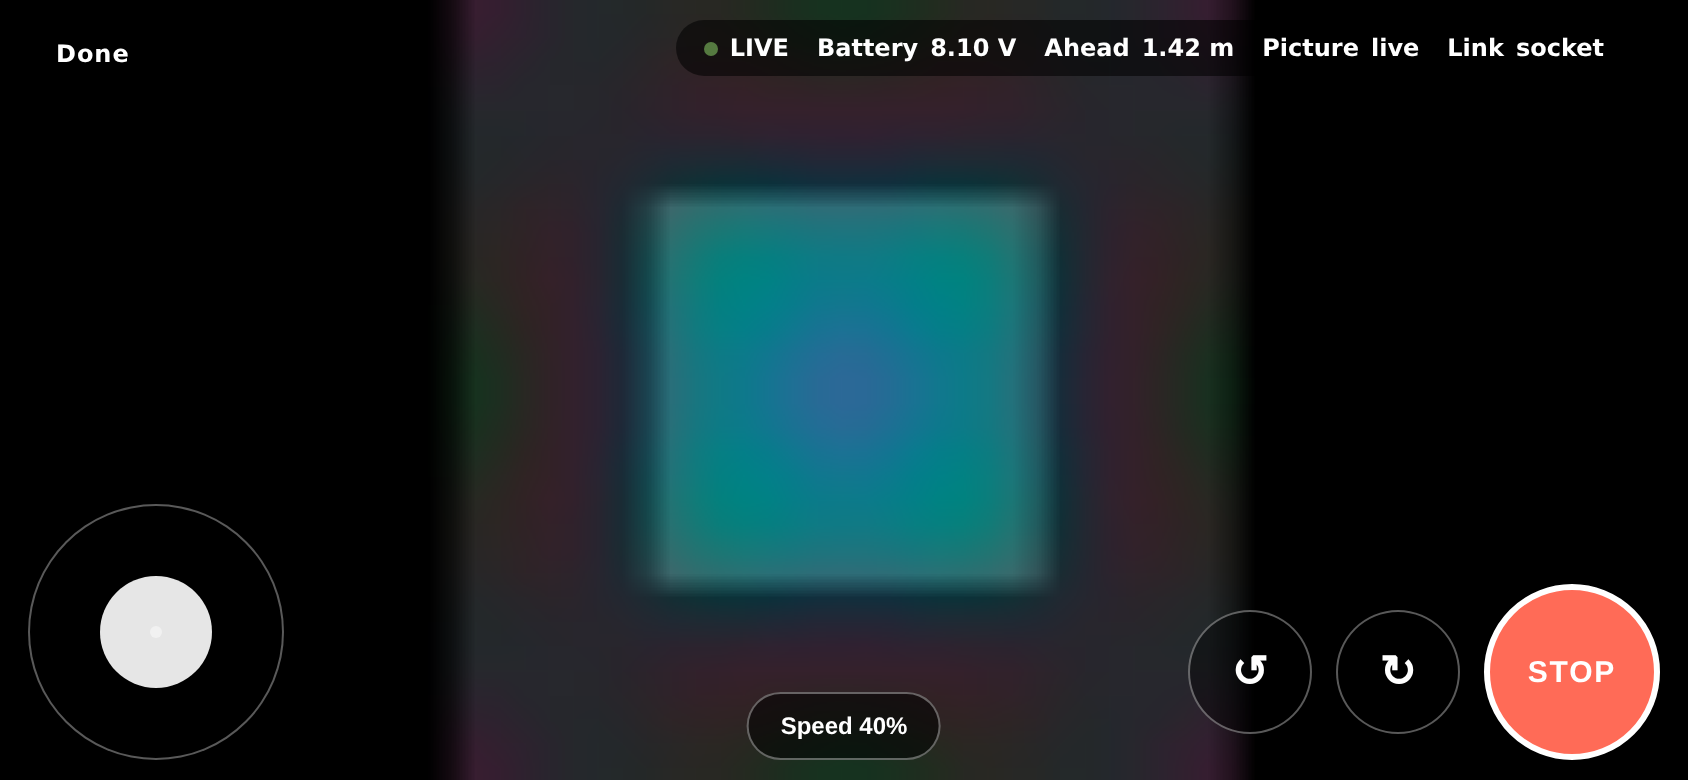
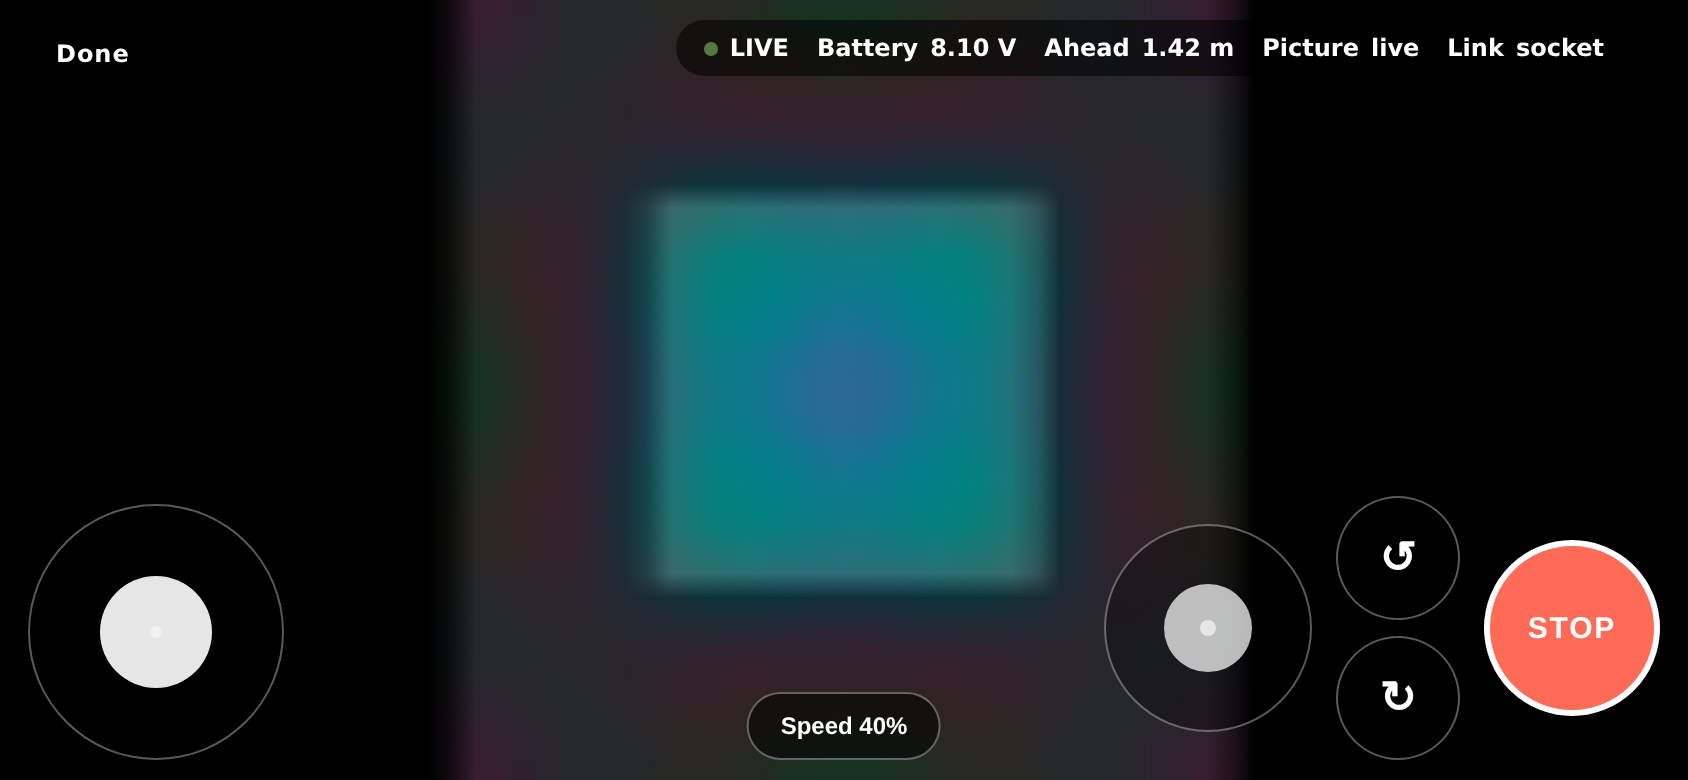
The second joystick: look around without driving
Chris asked for this twice and I had not built it. First: "I'd rather have
two joysticks: one controls the movement, and the other two control pan and
look around. Kind of think about how video games typically do this." Then,
after driving: "the pan up and down with the camera hasn't been done."

The gateway client has had `look_at()` and the app has had `/robot/look`
since the robot phase. There was simply no control on any page, so the
camera has never moved.

Left thumb drives, right thumb looks, as a twin-stick game lays it out.

**It is not a dead-man control, and that is the whole difference.**
Everything else on this page stops when you let go, because everything else
moves two kilograms of robot across a floor. A servo holds where it is put,
and a camera that snapped back to level on every release would be useless for
the one thing this is for -- looking around a room. So the knob stays where
your thumb left it, and `lookPan`/`lookTilt` are a record of where the camera
is rather than of a command in flight. Double-tapping the centre dot levels
it, because dragging to exactly zero by thumb is not a thing anyone manages.

Three more rules, each with a test, because this stick's rules are the
*inverse* of the one beside it and that is what invites a well-meant "fix":

- **Releasing it never stops the robot.** If these two ever share the drive
  stick's release path, aiming the camera mid-drive would cut the throttle.
[…]

diff --git a/src/kona_tracker/web/static/drive.js b/src/kona_tracker/web/static/drive.js
@@ -30,6 +30,7 @@
   // alarm is most likely to be raised in, since rotating upright is a stop.
   var estopAlarm = document.getElementById('estop-alarm');
   var rotL = document.getElementById('rot-left'), rotR = document.getElementById('rot-right');
+  var look = document.getElementById('look'), lookKnob = document.getElementById('look-knob');
   var shout = document.getElementById('shout'), shoutText = document.getElementById('shout-text');
   var note = document.getElementById('note');
   var volts = document.getElementById('volts'), sonar = document.getElementById('sonar');
@@ -49,6 +50,21 @@
   var PICTURE_STALE_MS = 600;
   var PICTURE_TICK_MS = 250;
   var RADIUS = 56;          // px of travel before the stick is at full tilt
+  var LOOK_RADIUS = 44;     // the look stick is smaller; its own travel
+  // The gateway clamps pan and tilt to this and so do we, for the same
+  // reason it does: a servo driven into its mechanical stop stalls, draws
+  // full current and strips its own gears. Kept equal to LOOK_LIMIT_DEG in
+  // robot/gateway.py -- if that ever moves, this moves with it.
+  var LOOK_LIMIT_DEG = 45;
+  // A servo command every 200ms would be five writes a second into an RPC
+  // server that handles one request at a time and already carries the drive
+  // loop. Aiming a camera does not need that rate: the eye cannot tell 6 Hz
+  // from 20, and a dropped intermediate position is invisible because the
+  // last one sent is the one that sticks.
+  var LOOK_INTERVAL_MS = 160;
+  // Below this the servo would be asked to move less than its own backlash,
+  // so the request is noise. In degrees.
+  var LOOK_EPSILON_DEG = 1.5;
   // The speed control caps the *velocity command*, not a pace. It used to be
   // labelled "Slow", which stopped being true on 2026-09-14: the gateway now
   // lifts every command above the motors' static-friction floor
@@ -74,6 +90,12 @@
   // The drive socket, when one is open. Null means every command goes over
   // HTTP, which is the original path and still the fallback.
   var wire = null;
+  // Where the camera is pointed, in degrees, as far as we know. Not reset
+  // on release: a servo holds where it is put, and this is our record of
+  // that rather than a command in flight.
+  var lookPan = 0, lookTilt = 0;
+  var lookPointer = null, lookSent = 0, lookTimer = null, lookInFlight = false;
+  var lookLastTap = 0;
   // Two independent reasons to shout, kept apart so neither can erase the
   // other: `owed` is the gateway telling us the board may still hold duty,
   // `failure` is our own last stop or drive that did not land.
@@ -334,6 +356,133 @@
     });
   });
 
+  // -- looking around ------------------------------------------------------
+  //
+  // The second stick. Chris asked for it twice: "I'd rather have two
+  // joysticks: one controls the movement, and the other two control pan and
+  // look around", and later "the pan up and down with the camera hasn't been
+  // done". Left thumb drives, right thumb looks, the way a twin-stick game
+  // lays it out.
+  //
+  // **It is not a dead-man control, and that is the important difference.**
+  // Everything else on this page stops when you let go, because everything
+  // else moves a two-kilogram robot across a floor. A servo holds where it is
+  // put, and a camera that snapped back to level on every release would be
+  // useless for the one thing this is for: looking around a room. So the knob
+  // stays where you left it and `lookPan`/`lookTilt` are our record of where
+  // the camera is, not of a command in flight.
+  //
+  // Degrees are absolute and sent as such. The gateway's `/look` takes a
+  // position, not a rate, so there is no integration here and no drift.
+  function placeLook() {
+    var x = lookPan / LOOK_LIMIT_DEG;
+    var y = -lookTilt / LOOK_LIMIT_DEG;
+    lookKnob.style.transform = x || y
+      ? 'translate(' + (x * LOOK_RADIUS).toFixed(1) + 'px,' + (y * LOOK_RADIUS).toFixed(1) + 'px)'
+      : '';
+  }
+
+  function sendLook() {
+    // One in flight at a time, and the newest wins. Unlike a drive command,
+    // a superseded look is genuinely worthless: only the last position
+    // matters, and queueing them would walk the servo through every
+    // intermediate point a thumb passed over.
+    if (lookInFlight) { return; }
+    var pan = lookPan, tilt = lookTilt;
+    lookInFlight = true;
+    lookSent = Date.now();
+    post('/robot/look', 'pan_deg=' + pan.toFixed(1) + '&tilt_deg=' + tilt.toFixed(1))
+      .then(function () { quiet(); })
+      .catch(function (e) {
+        if (e.message === 'signed out') { return; }
+        // Said, but not escalated: a camera that did not turn is a
+        // disappointment, where a robot that did not stop is a hazard. It
+        // does not call letGo(), because driving is unaffected.
+        shoutAt(e.message);
+      })
+      .then(function () {
+        lookInFlight = false;
+        // A move that arrived while the last one was in flight is still
+        // pending; land it now rather than leave the camera short of where
+        // the thumb finished.
+        if (pan !== lookPan || tilt !== lookTilt) { scheduleLook(); }
+      }, function () { lookInFlight = false; });
+  }
+
+  function scheduleLook() {
+    if (lookTimer) { return; }
+    var wait = Math.max(0, LOOK_INTERVAL_MS - (Date.now() - lookSent));
+    lookTimer = setTimeout(function () { lookTimer = null; sendLook(); }, wait);
+  }
+
+  function aim(pan, tilt) {
+    pan = Math.max(-LOOK_LIMIT_DEG, Math.min(LOOK_LIMIT_DEG, pan));
+    tilt = Math.max(-LOOK_LIMIT_DEG, Math.min(LOOK_LIMIT_DEG, tilt));
+    // The knob moves immediately and the request is throttled behind it.
+    // This is the one place on this page where drawing ahead of the robot is
+    // right: the alternative is a stick that lags a thumb by 160ms, which
+    // feels broken, and a wrong camera angle costs nothing.
+    var moved = Math.abs(pan - lookPan) >= LOOK_EPSILON_DEG ||
+                Math.abs(tilt - lookTilt) >= LOOK_EPSILON_DEG;
+    lookPan = pan;
+    lookTilt = tilt;
+    placeLook();
+    if (moved) { scheduleLook(); }
+  }
+
+  function aimAt(e) {
+    var box = look.getBoundingClientRect();
+    var x = (e.clientX - (box.left + box.width / 2)) / LOOK_RADIUS;
+    var y = (e.clientY - (box.top + box.height / 2)) / LOOK_RADIUS;
+    var length = Math.hypot(x, y);
+    // The unit disk, as the drive stick does it: a corner would ask for 1.41x
+    // and clamping the two axes separately would bend the direction.
+    if (length > 1) { x /= length; y /= length; }
+    // Screen up is tilt up. The gateway's sign convention for tilt is not
+    // documented and has never been checked on hardware -- which is exactly
+    // what docs/robot-measurements.md asks Chris to find out. If it comes
+    // back inverted it is one minus sign, here.
+    aim(x * LOOK_LIMIT_DEG, -y * LOOK_LIMIT_DEG);
+  }
+
+  if (look && lookKnob) {
+    look.addEventListener('pointerdown', function (e) {
+      if (look.getAttribute('aria-disabled') === 'true') { return; }
+      // Double-tap near the middle levels the camera. The centre dot is the
+      // target, and it is the only way back once you have aimed somewhere --
+      // dragging to exactly zero by thumb is not a thing anyone manages.
+      var now = Date.now();
+      if (now - lookLastTap < 300) {
+        lookLastTap = 0;
+        aim(0, 0);
+        scheduleLook();
+        e.preventDefault();
+        return;
+      }
+      lookLastTap = now;
+      lookPointer = e.pointerId;
+      look.setPointerCapture(e.pointerId);
+      look.classList.add('held');
+      aimAt(e);
+      e.preventDefault();
+    });
+    look.addEventListener('pointermove', function (e) {
+      if (lookPointer !== e.pointerId) { return; }
+      aimAt(e);
+      e.preventDefault();
+    });
+    ['pointerup', 'pointercancel', 'lostpointercapture'].forEach(function (name) {
+      look.addEventListener(name, function (e) {
+        if (lookPointer !== e.pointerId) { return; }
+        lookPointer = null;
+        look.classList.remove('held');
+        // One last send, so the camera ends where the thumb did rather than
+        // wherever the throttle happened to last fire.
+        scheduleLook();
+      });
+    });
+  }
+
   // Rotate left is POSITIVE omega. The gateway's frame is "vx forward, vy
   // left, omega counter-clockwise" (robot_gateway.py, wheel_duties), and
   // counter-clockwise seen from above is a left turn -- so the left button
@@ -399,6 +548,18 @@
   function allow(enabled, why) {
     stick.setAttribute('aria-disabled', String(!enabled));
     rotL.disabled = rotR.disabled = !enabled;
+    // The look stick goes with them. Unlike the LEDs -- which the gateway
+    // drives straight over I2C and which therefore survive the robot's own
+    // software dying -- `/look` goes through the RPC server on port 9030,
+    // the same one that owns the motors. Every reason this is called with
+    // false means that server is unreachable or busy.
+    //
+    // The arguable case is `low_battery`: the gateway's refusal is about the
+    // motors, and a servo on a flat pack might well still answer. Nobody has
+    // checked, so it is disabled with everything else -- a control that is
+    // dead when it need not be is a smaller fault than one that silently
+    // does nothing, and it is the state the battery reading already explains.
+    if (look) { look.setAttribute('aria-disabled', String(!enabled)); }
     if (!enabled && driving) { stopNow(why); }
   }
 

diff --git a/src/kona_tracker/web/templates/drive.html b/src/kona_tracker/web/templates/drive.html
@@ -64,8 +64,27 @@
         <div class="knob" id="knob"></div>
       </div>
       <div class="drive-right">
-        <button class="spin" id="rot-left" type="button" aria-label="Rotate left">↺</button>
-        <button class="spin" id="rot-right" type="button" aria-label="Rotate right">↻</button>
+        {# The second stick, which is what Chris asked for twice: left thumb
+           drives, right thumb looks, the way a twin-stick game lays it out.
+
+           It is NOT a dead-man control and deliberately does not recentre on
+           release. A servo holds where it is put, and a camera that snapped
+           back to centre every time you lifted your thumb would be unusable
+           for the thing this page exists for -- looking around a room. The
+           dot in the middle is the way back: double-tap to level it.
+
+           Rotation stays on the two buttons. On a holonomic robot the left
+           stick's sideways axis is a genuine strafe, so there is no spare
+           axis for turning, and a button press is unambiguous where a stick
+           corner is not. #}
+        <div class="stick look" id="look" role="application"
+             aria-label="Look around: drag to aim the camera, double-tap to level it">
+          <div class="knob" id="look-knob"></div>
+        </div>
+        <div class="drive-spins">
+          <button class="spin" id="rot-left" type="button" aria-label="Rotate left">↺</button>
+          <button class="spin" id="rot-right" type="button" aria-label="Rotate right">↻</button>
+        </div>
         <button class="estop" id="estop" type="button" aria-label="Stop the robot now">STOP</button>
       </div>
     </div>

diff --git a/src/kona_tracker/web/static/app.css b/src/kona_tracker/web/static/app.css
@@ -891,6 +891,20 @@ body.activity-page { overscroll-behavior-y: contain; }
 .stick.held .knob { transition: none; }
 .stick[aria-disabled="true"] { opacity: .4; }
 .drive-right { display: flex; align-items: center; gap: 12px; }
+/* The two rotate buttons stack now that a second stick shares this corner.
+   At 667px landscape -- the narrowest phone this page is used on -- a row of
+   stick + 2 buttons + STOP does not fit beside the picture; a column of two
+   62px buttons is the same height as the 128px stick beside it and costs one
+   button's width instead of two. */
+.drive-spins { display: flex; flex-direction: column; gap: 8px; }
+/* Smaller than the drive stick and quieter, because it is the less urgent of
+   the two and must never be the one a thumb lands on by mistake. */
+.look { width: 104px; height: 104px; background: rgba(0,0,0,.30); }
+.look .knob { width: 44px; height: 44px; margin: -22px 0 0 -22px; background: rgba(255,255,255,.72); }
+/* The centre dot is the way back to level, so it is a target rather than a
+   decoration: brighter than the drive stick's, and the double-tap that uses
+   it is announced in the stick's own aria-label. */
+.look::after { width: 8px; height: 8px; margin: -4px 0 0 -4px; background: rgba(255,255,255,.6); }
 .spin { width: 62px; height: 62px; flex: none; border-radius: 50%; border: 1px solid rgba(255,255,255,.35);
   background: rgba(0,0,0,.42); color: #fff; font-size: 22px; font-weight: 700;
   touch-action: none; transition: transform .1s ease-out; }
